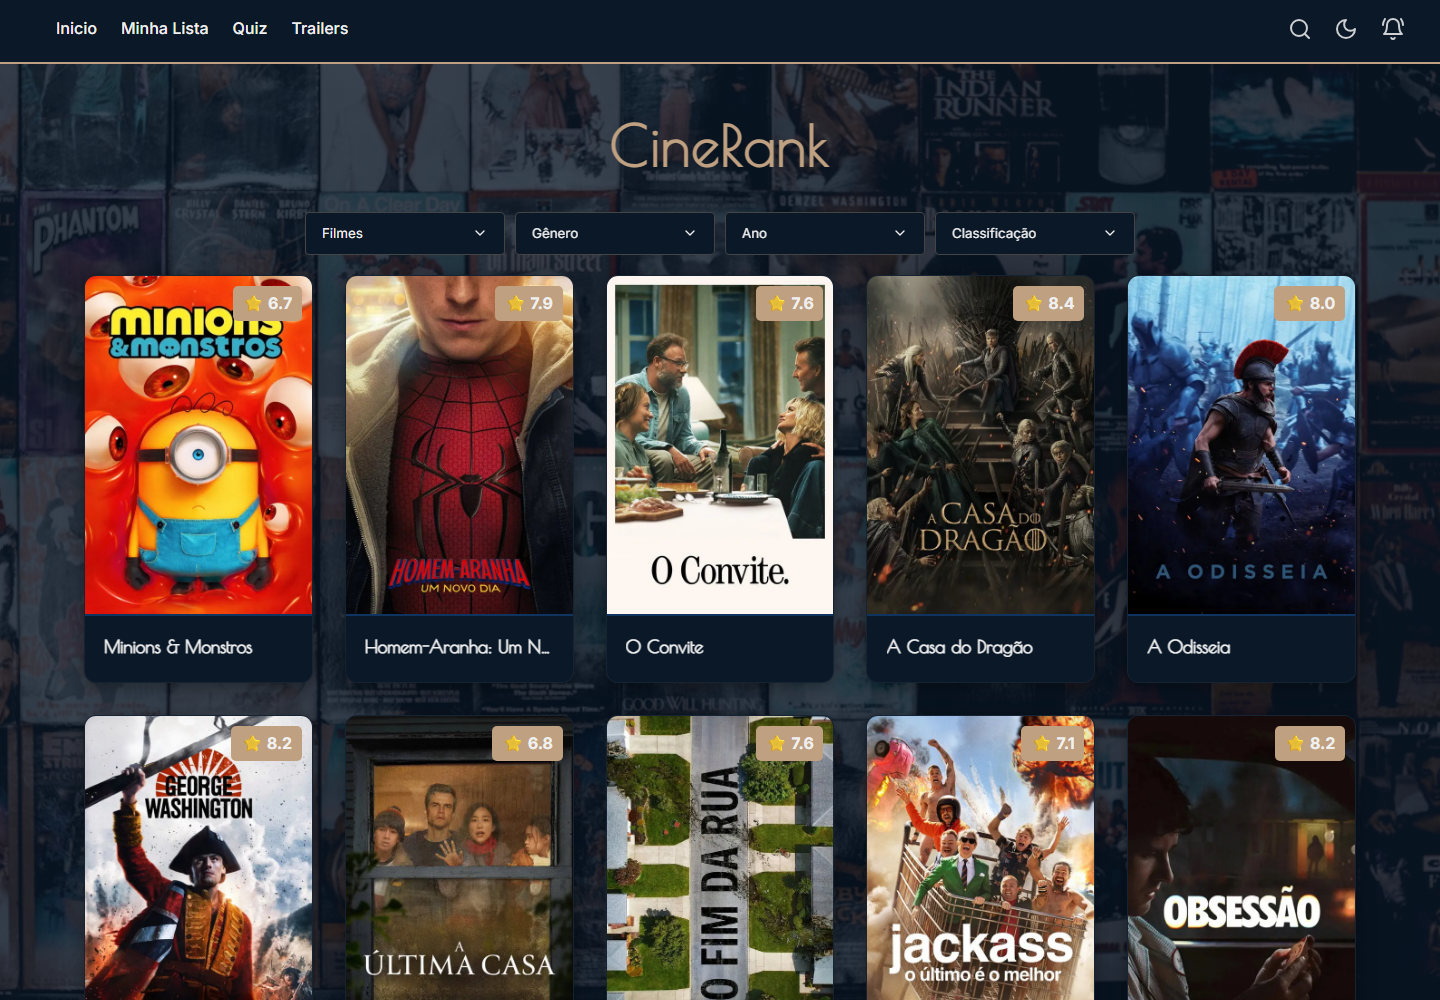
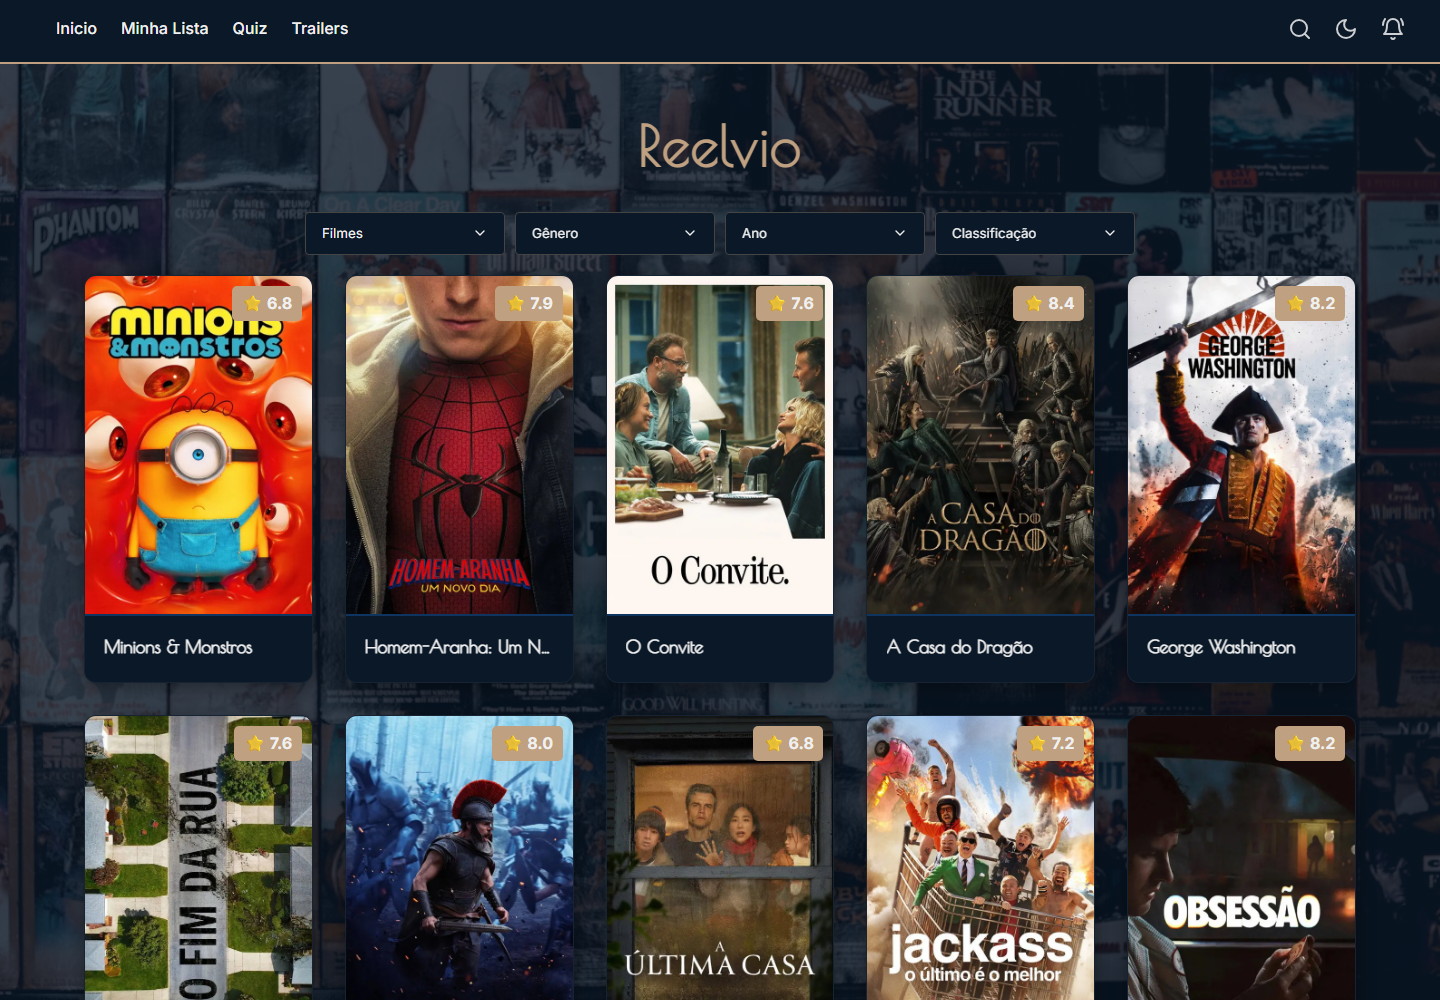
rebrand: rename app to reelvio

diff --git a/app/layout.jsx b/app/layout.jsx
@@ -1,7 +1,7 @@
 import '../src/styles/main.css';
 
 const siteUrl = 'https://cineerank.netlify.app';
-const siteName = 'CineRank';
+const siteName = 'Reelvio';
 const siteDescription =
   'Descubra filmes e séries, veja trailers, acompanhe notícias do cinema e salve seus favoritos em uma experiência moderna com Next.js.';
 
@@ -9,12 +9,12 @@ export const metadata = {
   metadataBase: new URL(siteUrl),
   applicationName: siteName,
   title: {
-    default: 'CineRank - Filmes, séries, trailers e notícias',
+    default: 'Reelvio - Filmes, séries, trailers e notícias',
     template: `%s | ${siteName}`
   },
   description: siteDescription,
   keywords: [
-    'CineRank',
+    'Reelvio',
     'filmes',
     'séries',
     'trailers',
@@ -34,20 +34,20 @@ export const metadata = {
     locale: 'pt_BR',
     url: '/',
     siteName,
-    title: 'CineRank - Filmes, séries, trailers e notícias',
+    title: 'Reelvio - Filmes, séries, trailers e notícias',
     description: siteDescription,
     images: [
       {
         url: '/opengraph-image',
         width: 1200,
         height: 630,
-        alt: 'CineRank - descubra filmes, séries, trailers e notícias'
+        alt: 'Reelvio - descubra filmes, séries, trailers e notícias'
       }
     ]
   },
   twitter: {
     card: 'summary_large_image',
-    title: 'CineRank - Filmes, séries, trailers e notícias',
+    title: 'Reelvio - Filmes, séries, trailers e notícias',
     description: siteDescription,
     images: ['/twitter-image']
   },

diff --git a/src/core/storage.js b/src/core/storage.js
@@ -63,7 +63,13 @@ export const StorageService = {
   },
 
   getHighScore: () =>
-    Number(getFirstStoredValue([STORAGE_KEYS.HIGH_SCORE, 'highScore']) || 0),
+    Number(
+      getFirstStoredValue([
+        STORAGE_KEYS.HIGH_SCORE,
+        'cinerank_high_score',
+        'highScore'
+      ]) || 0
+    ),
   setHighScore: (score) => {
     if (typeof localStorage === 'undefined') return;
     localStorage.setItem(STORAGE_KEYS.HIGH_SCORE, String(score));
@@ -82,7 +88,11 @@ export const StorageService = {
 
   getSearchHistory: () =>
     safeParseJSON(
-      getFirstStoredValue([STORAGE_KEYS.SEARCH_HISTORY, 'searchHistory']),
+      getFirstStoredValue([
+        STORAGE_KEYS.SEARCH_HISTORY,
+        'cinerank_search_history',
+        'searchHistory'
+      ]),
       []
     ),
   addSearchHistory: (query) => {

diff --git a/app/opengraph-image.jsx b/app/opengraph-image.jsx
@@ -1,6 +1,6 @@
 import { ImageResponse } from 'next/og';
 
-export const alt = 'CineRank - descubra filmes, séries, trailers e notícias';
+export const alt = 'Reelvio - descubra filmes, séries, trailers e notícias';
 export const size = {
   width: 1200,
   height: 630
@@ -47,9 +47,9 @@ export default function OpenGraphImage() {
             fontWeight: 900
           }}
         >
-          C
+          R
         </div>
-        CineRank
+        Reelvio
       </div>
 
       <div style={{ display: 'flex', flexDirection: 'column', gap: 26 }}>

diff --git a/src/core/constants.js b/src/core/constants.js
@@ -8,9 +8,9 @@ export const ROUTES = {
 };
 
 export const STORAGE_KEYS = {
-  WATCHLIST: 'cinerank_watchlist',
-  THEME: 'cinerank_theme',
-  HIGH_SCORE: 'cinerank_high_score',
-  LAST_SEEN_NEWS: 'cinerank_last_news',
-  SEARCH_HISTORY: 'cinerank_search_history'
+  WATCHLIST: 'reelvio_watchlist',
+  THEME: 'reelvio_theme',
+  HIGH_SCORE: 'reelvio_high_score',
+  LAST_SEEN_NEWS: 'reelvio_last_news',
+  SEARCH_HISTORY: 'reelvio_search_history'
 };

diff --git a/tests/e2e/smoke.spec.js b/tests/e2e/smoke.spec.js
@@ -3,7 +3,7 @@ import { expect, test } from '@playwright/test';
 test('opens the home page', async ({ page }) => {
   await page.goto('/');
 
-  await expect(page).toHaveTitle(/CineRank/);
+  await expect(page).toHaveTitle(/Reelvio/);
   await expect(page.getByRole('main')).toBeVisible();
   await expect(page.locator('#dashboard-title')).toBeVisible();
 });

diff --git a/app/components/Dashboard.jsx b/app/components/Dashboard.jsx
@@ -159,7 +159,7 @@ export default function Dashboard({
 
   return (
     <section id="dashboard" aria-labelledby="dashboard-title">
-      <h1 id="dashboard-title">CineRank</h1>
+      <h1 id="dashboard-title">Reelvio</h1>
       <div
         className="filter-container dashboard-filters"
         role="search"

diff --git a/app/components/Footer.jsx b/app/components/Footer.jsx
@@ -3,7 +3,7 @@ export default function Footer() {
     <footer className="footer">
       <div className="footer-container">
         <div className="footer-col footer-brand">
-          <h3>CineRank</h3>
+          <h3>Reelvio</h3>
           <p>© 2025 Todos os direitos reservados.</p>
         </div>
 

diff --git a/README.md b/README.md
@@ -1,18 +1,18 @@
-# CineRank
+# Reelvio
 
 [![CI](https://github.com/LuaraGoncalves/CineRank/actions/workflows/ci.yml/badge.svg)](https://github.com/LuaraGoncalves/CineRank/actions/workflows/ci.yml)
 
-CineRank é uma aplicação Next.js para descobrir filmes, séries, trailers e notícias do universo audiovisual. O projeto consome APIs externas, organiza regras em camadas, salva preferências no navegador e possui testes automatizados para proteger os fluxos principais.
+Reelvio é uma aplicação Next.js para descobrir filmes, séries, trailers e notícias do universo audiovisual. O projeto consome APIs externas, organiza regras em camadas, salva preferências no navegador e possui testes automatizados para proteger os fluxos principais.
 
 ## Preview
 
 ### Dashboard
 
-![Dashboard do CineRank com cards de filmes, filtros e navegação principal](docs/screenshots/home-dashboard.png)
+![Dashboard do Reelvio com cards de filmes, filtros e navegação principal](docs/screenshots/home-dashboard.png)
 
 ### Quiz
 
-![Tela inicial do quiz de filmes e séries do CineRank](docs/screenshots/quiz.png)
+![Tela inicial do quiz de filmes e séries do Reelvio](docs/screenshots/quiz.png)
 
 ## Destaques Técnicos
 
